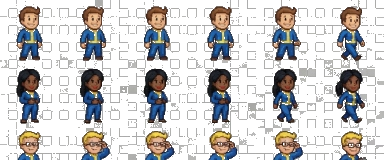
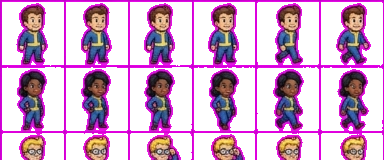
Regenerate assets with solid background (v0.0.18)

diff --git a/process_assets.py b/process_assets.py
@@ -12,13 +12,12 @@ def remove_background(img, tolerance=30):
     
     new_data = []
     
-    # Target colors (Grey checkerboard)
-    # Based on previous analysis: ~149 and ~204/255
-    # Let's define a list of target colors to key out
+    # Target colors (Magenta)
+    # Key out #FF00FF (255, 0, 255)
     targets = [
-        (149, 149, 149),
-        (204, 204, 204),
-        (255, 255, 255) # Sometimes white
+        (255, 0, 255), # Magenta
+        (255, 0, 254), # Near Magenta (compression artifacts)
+        (254, 0, 255)
     ]
     
     for item in datas:
